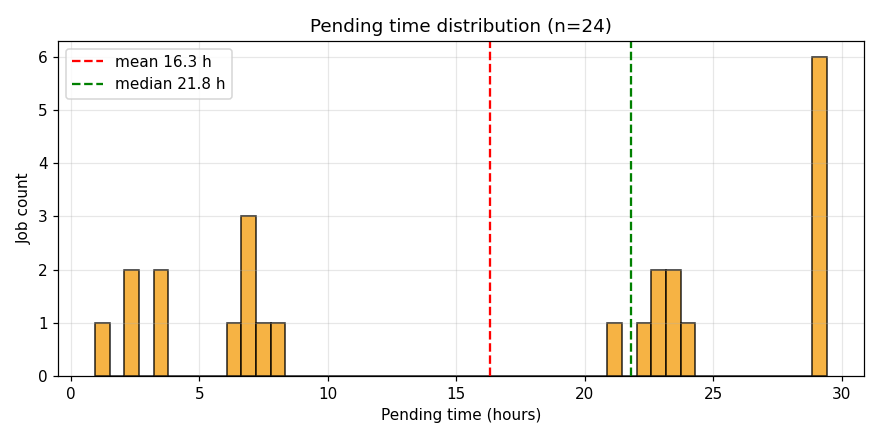
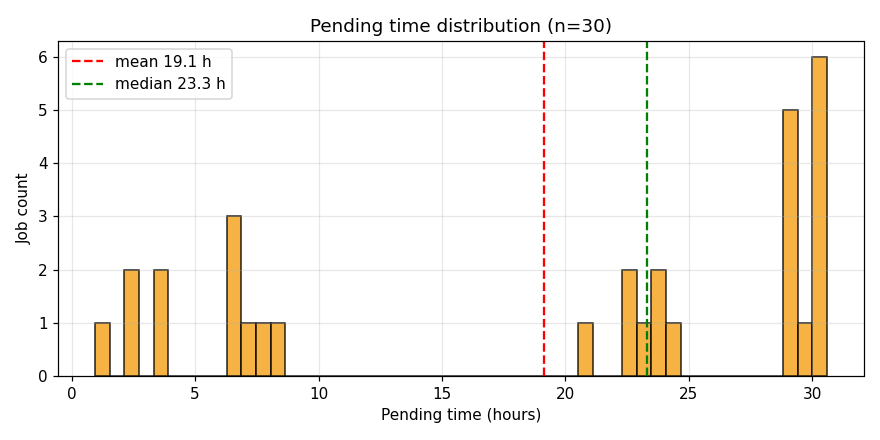
auto: 2026-09-23 17:51:02

diff --git a/index.html b/index.html
@@ -24,29 +24,29 @@ tr:nth-child(even) { background: #fafafa; }
 </style>
 </head><body>
 <h1>AF3 Campaign Dashboard</h1>
-<p class="stamp">Last updated: <strong>2026-09-23 16:50 EDT</strong> · regenerated on the cluster hourly · this page auto-reloads every 30 min</p>
+<p class="stamp">Last updated: <strong>2026-09-23 17:51 EDT</strong> · regenerated on the cluster hourly · this page auto-reloads every 30 min</p>
 
 <div class="cards">
-  <div class="card"><div class="v">161</div><div class="l">Total COMPLETED pairs</div></div>
-  <div class="card"><div class="v">79</div><div class="l">Done today</div></div>
-  <div class="card"><div class="v">88</div><div class="l">Last 24 h rate</div></div>
-  <div class="card"><div class="v">13 / 27</div><div class="l">Running / Pending now</div></div>
+  <div class="card"><div class="v">186</div><div class="l">Total COMPLETED pairs</div></div>
+  <div class="card"><div class="v">104</div><div class="l">Done today</div></div>
+  <div class="card"><div class="v">109</div><div class="l">Last 24 h rate</div></div>
+  <div class="card"><div class="v">19 / 21</div><div class="l">Running / Pending now</div></div>
 </div>
 
 <h2>Live queue</h2>
 <div class="plots">
   <div>
-    <h3>RUNNING (13)</h3>
+    <h3>RUNNING (19)</h3>
     <div class="queue-table">
       <table><thead><tr><th>Job</th><th>Elapsed</th><th>Left</th><th>Reason / Node</th></tr></thead>
-      <tbody><tr><td>af3_p048_b001</td><td>22:58</td><td>1-23:37:02</td><td>alphagpu51</td></tr><tr><td>af3_p047_b002</td><td>35:36</td><td>1-23:24:24</td><td>alphagpu51</td></tr><tr><td>af3_p045_b002</td><td>44:01</td><td>1-23:15:59</td><td>alphagpu51</td></tr><tr><td>af3_p047_b001</td><td>39:49</td><td>1-23:20:11</td><td>alphagpu54</td></tr><tr><td>af3_p046_b001</td><td>44:01</td><td>1-23:15:59</td><td>alphagpu52</td></tr><tr><td>af3_p046_b002</td><td>44:01</td><td>1-23:15:59</td><td>alphagpu53</td></tr><tr><td>af3_p045_b001</td><td>5:40:57</td><td>1-18:19:03</td><td>alphagpu52</td></tr><tr><td>af3_p044_b001</td><td>6:07:16</td><td>1-17:52:44</td><td>alphagpu53</td></tr><tr><td>af3_p044_b002</td><td>6:09:52</td><td>1-17:50:08</td><td>alphagpu54</td></tr><tr><td>af3_p042_b002</td><td>6:50:50</td><td>1-17:09:10</td><td>alphagpu51</td></tr><tr><td>af3_p042_b001</td><td>7:06:51</td><td>1-16:53:09</td><td>alphagpu54</td></tr><tr><td>af3_p041_b002</td><td>7:16:08</td><td>1-16:43:52</td><td>alphagpu51</td></tr><tr><td>af3_p041_b001</td><td>8:43:19</td><td>1-15:16:41</td><td>alphagpu53</td></tr></tbody></table>
+      <tbody><tr><td>af3_p050_b001</td><td>17:58</td><td>1-23:42:02</td><td>alphagpu52</td></tr><tr><td>af3_p049_b002</td><td>19:33</td><td>1-23:40:27</td><td>alphagpu53</td></tr><tr><td>af3_p049_b001</td><td>20:36</td><td>1-23:39:24</td><td>alphagpu52</td></tr><tr><td>af3_p048_b002</td><td>43:15</td><td>1-23:16:45</td><td>alphagpu53</td></tr><tr><td>af3_p051_b001</td><td>12:44</td><td>1-23:47:16</td><td>alphagpu54</td></tr><tr><td>af3_p050_b002</td><td>13:15</td><td>1-23:46:45</td><td>alphagpu53</td></tr><tr><td>af3_p048_b001</td><td>1:23:27</td><td>1-22:36:33</td><td>alphagpu51</td></tr><tr><td>af3_p047_b002</td><td>1:36:05</td><td>1-22:23:55</td><td>alphagpu51</td></tr><tr><td>af3_p045_b002</td><td>1:44:30</td><td>1-22:15:30</td><td>alphagpu51</td></tr><tr><td>af3_p047_b001</td><td>1:40:18</td><td>1-22:19:42</td><td>alphagpu54</td></tr><tr><td>af3_p046_b001</td><td>1:44:30</td><td>1-22:15:30</td><td>alphagpu52</td></tr><tr><td>af3_p046_b002</td><td>1:44:30</td><td>1-22:15:30</td><td>alphagpu53</td></tr><tr><td>af3_p045_b001</td><td>6:41:26</td><td>1-17:18:34</td><td>alphagpu52</td></tr><tr><td>af3_p044_b001</td><td>7:07:45</td><td>1-16:52:15</td><td>alphagpu53</td></tr><tr><td>af3_p044_b002</td><td>7:10:21</td><td>1-16:49:39</td><td>alphagpu54</td></tr><tr><td>af3_p042_b002</td><td>7:51:19</td><td>1-16:08:41</td><td>alphagpu51</td></tr><tr><td>af3_p042_b001</td><td>8:07:20</td><td>1-15:52:40</td><td>alphagpu54</td></tr><tr><td>af3_p041_b002</td><td>8:16:37</td><td>1-15:43:23</td><td>alphagpu51</td></tr><tr><td>af3_p041_b001</td><td>9:43:48</td><td>1-14:16:12</td><td>alphagpu53</td></tr></tbody></table>
     </div>
   </div>
   <div>
-    <h3>PENDING (27)</h3>
+    <h3>PENDING (21)</h3>
     <div class="queue-table">
       <table><thead><tr><th>Job</th><th>Wait</th><th>Limit</th><th>Reason</th></tr></thead>
-      <tbody><tr><td>af3_p056_b001</td><td>0:00</td><td>2-00:00:00</td><td>(Priority)</td></tr><tr><td>af3_p055_b002</td><td>0:00</td><td>2-00:00:00</td><td>(Priority)</td></tr><tr><td>af3_p054_b002</td><td>0:00</td><td>2-00:00:00</td><td>(Priority)</td></tr><tr><td>af3_p055_b001</td><td>0:00</td><td>2-00:00:00</td><td>(Priority)</td></tr><tr><td>af3_p054_b001</td><td>0:00</td><td>2-00:00:00</td><td>(Priority)</td></tr><tr><td>af3_p053_b002</td><td>0:00</td><td>2-00:00:00</td><td>(Priority)</td></tr><tr><td>af3_p052_b002</td><td>0:00</td><td>2-00:00:00</td><td>(Priority)</td></tr><tr><td>af3_p053_b001</td><td>0:00</td><td>2-00:00:00</td><td>(Priority)</td></tr><tr><td>af3_p052_b001</td><td>0:00</td><td>2-00:00:00</td><td>(Priority)</td></tr><tr><td>af3_p051_b002</td><td>0:00</td><td>2-00:00:00</td><td>(Priority)</td></tr><tr><td>af3_p050_b002</td><td>0:00</td><td>2-00:00:00</td><td>(Priority)</td></tr><tr><td>af3_p051_b001</td><td>0:00</td><td>2-00:00:00</td><td>(Priority)</td></tr><tr><td>af3_p050_b001</td><td>0:00</td><td>2-00:00:00</td><td>(Priority)</td></tr><tr><td>af3_p049_b002</td><td>0:00</td><td>2-00:00:00</td><td>(Priority)</td></tr><tr><td>af3_p048_b002</td><td>0:00</td><td>2-00:00:00</td><td>(Priority)</td></tr><tr><td>af3_p049_b001</td><td>0:00</td><td>2-00:00:00</td><td>(Priority)</td></tr><tr><td>af3_p059_b001</td><td>0:00</td><td>2-00:00:00</td><td>(Priority)</td></tr><tr><td>af3_p058_b002</td><td>0:00</td><td>2-00:00:00</td><td>(Priority)</td></tr><tr><td>af3_p058_b001</td><td>0:00</td><td>2-00:00:00</td><td>(Priority)</td></tr><tr><td>af3_p057_b002</td><td>0:00</td><td>2-00:00:00</td><td>(Priority)</td></tr><tr><td>af3_p057_b001</td><td>0:00</td><td>2-00:00:00</td><td>(Priority)</td></tr><tr><td>af3_p056_b002</td><td>0:00</td><td>2-00:00:00</td><td>(Priority)</td></tr><tr><td>af3_p061_b002</td><td>0:00</td><td>2-00:00:00</td><td>(Priority)</td></tr><tr><td>af3_p061_b001</td><td>0:00</td><td>2-00:00:00</td><td>(Priority)</td></tr><tr><td>af3_p060_b002</td><td>0:00</td><td>2-00:00:00</td><td>(Priority)</td></tr><tr><td>af3_p060_b001</td><td>0:00</td><td>2-00:00:00</td><td>(Priority)</td></tr><tr><td>af3_p059_b002</td><td>0:00</td><td>2-00:00:00</td><td>(Priority)</td></tr></tbody></table>
+      <tbody><tr><td>af3_p051_b002</td><td>0:00</td><td>2-00:00:00</td><td>(Priority)</td></tr><tr><td>af3_p059_b001</td><td>0:00</td><td>2-00:00:00</td><td>(Priority)</td></tr><tr><td>af3_p058_b002</td><td>0:00</td><td>2-00:00:00</td><td>(Priority)</td></tr><tr><td>af3_p058_b001</td><td>0:00</td><td>2-00:00:00</td><td>(Priority)</td></tr><tr><td>af3_p057_b002</td><td>0:00</td><td>2-00:00:00</td><td>(Priority)</td></tr><tr><td>af3_p057_b001</td><td>0:00</td><td>2-00:00:00</td><td>(Priority)</td></tr><tr><td>af3_p056_b002</td><td>0:00</td><td>2-00:00:00</td><td>(Priority)</td></tr><tr><td>af3_p056_b001</td><td>0:00</td><td>2-00:00:00</td><td>(Priority)</td></tr><tr><td>af3_p055_b002</td><td>0:00</td><td>2-00:00:00</td><td>(Priority)</td></tr><tr><td>af3_p055_b001</td><td>0:00</td><td>2-00:00:00</td><td>(Priority)</td></tr><tr><td>af3_p054_b002</td><td>0:00</td><td>2-00:00:00</td><td>(Priority)</td></tr><tr><td>af3_p054_b001</td><td>0:00</td><td>2-00:00:00</td><td>(Priority)</td></tr><tr><td>af3_p053_b002</td><td>0:00</td><td>2-00:00:00</td><td>(Priority)</td></tr><tr><td>af3_p053_b001</td><td>0:00</td><td>2-00:00:00</td><td>(Priority)</td></tr><tr><td>af3_p052_b002</td><td>0:00</td><td>2-00:00:00</td><td>(Priority)</td></tr><tr><td>af3_p052_b001</td><td>0:00</td><td>2-00:00:00</td><td>(Priority)</td></tr><tr><td>af3_p061_b001</td><td>0:00</td><td>2-00:00:00</td><td>(Priority)</td></tr><tr><td>af3_p060_b002</td><td>0:00</td><td>2-00:00:00</td><td>(Priority)</td></tr><tr><td>af3_p060_b001</td><td>0:00</td><td>2-00:00:00</td><td>(Priority)</td></tr><tr><td>af3_p059_b002</td><td>0:00</td><td>2-00:00:00</td><td>(Priority)</td></tr><tr><td>af3_p061_b002</td><td>0:00</td><td>2-00:00:00</td><td>(Priority)</td></tr></tbody></table>
     </div>
   </div>
 </div>
@@ -62,7 +62,7 @@ tr:nth-child(even) { background: #fafafa; }
 </div>
 
 <h2>All-time job state breakdown</h2>
-<table><thead><tr><th>State</th><th>Count</th></tr></thead><tbody><tr><td>PENDING</td><td>27</td></tr><tr><td>RUNNING</td><td>13</td></tr><tr><td>COMPLETED</td><td>6</td></tr></tbody></table>
+<table><thead><tr><th>State</th><th>Count</th></tr></thead><tbody><tr><td>PENDING</td><td>21</td></tr><tr><td>RUNNING</td><td>19</td></tr><tr><td>COMPLETED</td><td>6</td></tr></tbody></table>
 
 <p class="stamp"><small>Generated by <code>generate.py</code> on the SUNY HPC cluster.
 Source / regeneration policy at <a href="https://github.com/matvei-lukianov/af3-dashboard">github.com/matvei-lukianov/af3-dashboard</a></small></p>
